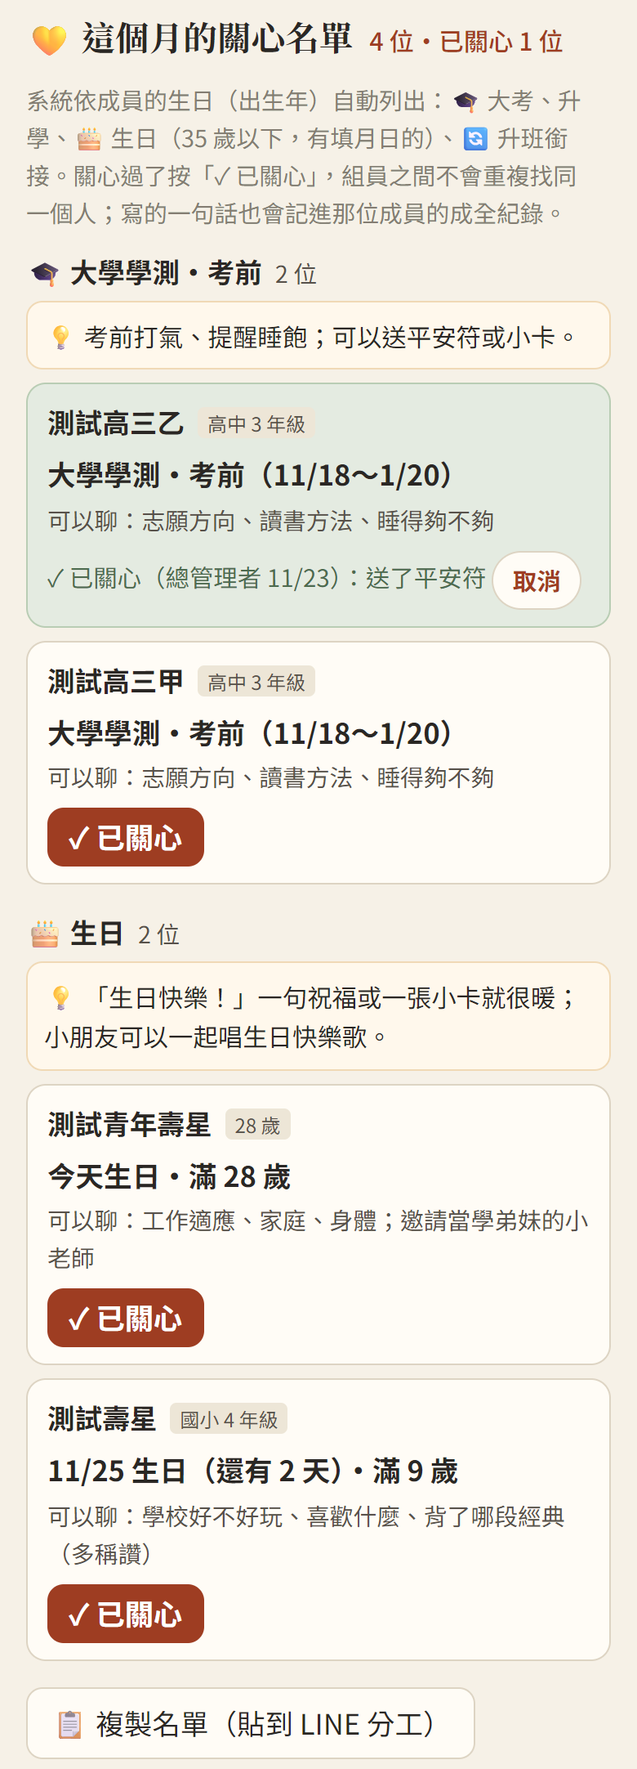
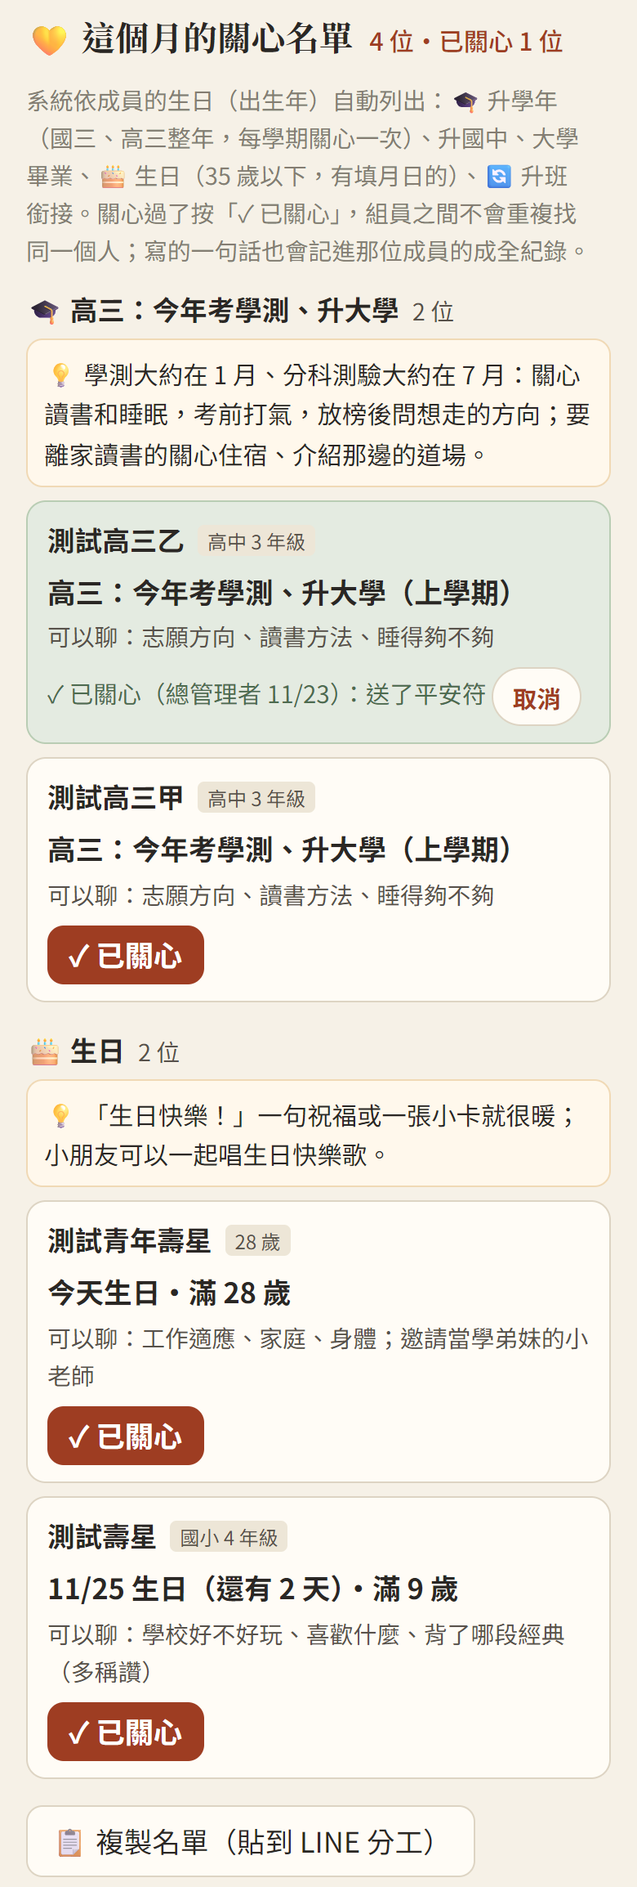
關心名單不記大考日期：國三、高三整個學年都列，每學期記一次已關心

Changed region(s): [[0.0308, 0.0, 0.9846, 0.9908], [0.5231, 0.6811, 0.9231, 0.7121], [0.9231, 0.774, 0.9538, 0.805]]

diff --git a/js/edu-care.js b/js/edu-care.js
@@ -1,5 +1,6 @@
 // 教育組的關心名單（2026/11/23）：依成員的生日、學齡，自動列出「這個月該關心誰」，每位附上原因和可以聊的話題。
-//   🎓 大考、升學：國中會考、大學學測、分科測驗（考前、放榜後）、升國中、大學畢業（日期可以在畫面上調整，存在 EDU_CARE_CONFIG）
+//   🎓 升學年：國三（會考、升高中）、高三（學測、分科、升大學）整個學年都列，每學期記一次已關心；
+//      升國中（國小六年級 6～8 月）、大學畢業（大四 5～6 月）。不記大考的確切日期（每年不一樣）。
 //   🎂 生日：前 3 天到後 7 天（35 歲以下，有填月日的）
 //   🔄 升班銜接：6～8 月列出 9 月要換班的人（讀經班→青少年班⋯），9～10 月列出剛升上新班的人
 // 「✓ 已關心」記在 apps-script/EduCare.gs（EDU_CARE），一句紀錄也寫進成員的成全紀錄。
@@ -16,14 +17,13 @@
     青年: '工作適應、家庭、身體；邀請當學弟妹的小老師'
   };
   const is = (stage, grade) => (st) => !!st && st.stage === stage && (grade === undefined || st.grade === grade);
-  /** 大考、升學（日期是大概的，每年看教育部公告，可以在畫面上改） */
+  /**
+   * 升學年（2026/11/23 改：不記大考日期）：國三、高三整個學年（9 月～隔年 8 月）都列，每學期（9～1 月、2～8 月）可以記一次已關心；
+   * 升國中、大學畢業只在那幾個月。
+   */
   const EVENTS = [
-    { id: 'cap', icon: '🎓', title: '國中會考・考前', who: is('國中', 3), from: '04-10', to: '05-20', topic: '考前打氣、不給壓力：「祝你考試順利，有需要幫忙跟我說」，可以送平安符或小卡。' },
-    { id: 'cap-after', icon: '🎓', title: '國中會考・放榜後', who: is('國中', 3), from: '06-05', to: '06-30', topic: '問結果和志願；考不好的更要陪伴，多聽少說。' },
-    { id: 'gsat', icon: '🎓', title: '大學學測・考前', who: is('高中', 3), from: '12-01', to: '01-20', topic: '考前打氣、提醒睡飽；可以送平安符或小卡。' },
-    { id: 'gsat-after', icon: '🎓', title: '大學學測・放榜後', who: is('高中', 3), from: '02-20', to: '03-20', topic: '問成績和想走的方向；要準備分科測驗的多鼓勵。' },
-    { id: 'ast', icon: '🎓', title: '分科測驗・考前', who: is('高中', 3), from: '06-01', to: '07-12', topic: '最後衝刺，關心身體和心情；考完邀請來青年活動放鬆。' },
-    { id: 'ast-after', icon: '🎓', title: '分科測驗・放榜後', who: is('高中', 3), from: '08-01', to: '08-25', topic: '問分發結果；要離家讀書的關心住宿、交通，介紹那邊的道場。' },
+    { id: 'g9', icon: '🎓', title: '國三：今年考會考、升高中', who: is('國中', 3), from: '09-01', to: '08-31', term: true, topic: '會考大約在 5 月：平常多鼓勵、考前打氣不給壓力（可以送平安符或小卡），放榜後問志願；壓力大的多聽少說。' },
+    { id: 'g12', icon: '🎓', title: '高三：今年考學測、升大學', who: is('高中', 3), from: '09-01', to: '08-31', term: true, topic: '學測大約在 1 月、分科測驗大約在 7 月：關心讀書和睡眠，考前打氣，放榜後問想走的方向；要離家讀書的關心住宿、介紹那邊的道場。' },
     { id: 'g6', icon: '🏫', title: '升國中', who: is('國小', 6), from: '06-01', to: '08-31', topic: '新環境、交新朋友；邀請繼續來青少年班。' },
     { id: 'u4', icon: '🎓', title: '大學畢業', who: is('大學', 4), from: '05-01', to: '06-30', topic: '找工作、當兵；邀請來青年班，也可以當學弟妹的小老師。' }
   ];
@@ -47,7 +47,7 @@
   const topicOf = (st, age) => (st ? TOPICS[st.stage] || '' : age !== '' && age <= 35 ? TOPICS['青年'] : '');
 
   /**
-   * members：成員名單（只算啟用中、不是待確認）；config：{ 原因代號: { from, to, off } }；stageOf＝Family.schoolStage；classes＝EduStats.AGE_CLASSES。
+   * members：成員名單（只算啟用中、不是待確認）；config：保留（不用了）；stageOf＝Family.schoolStage；classes＝EduStats.AGE_CLASSES。
    * 回傳 [{ id, icon, title, topic, items: [{ key, name, temple, label, reason, topic }] }]（沒有人的不回）
    */
   function build(members, today, config, stageOf, classes) {
@@ -66,12 +66,12 @@
     const groups = [];
 
     // 🎓 大考、升學
+    const term = m0 >= '02-01' && m0 < '09-01' ? 2 : 1; // 上學期 9～1 月、下學期 2～8 月
     EVENTS.forEach((e) => {
-      const c = config[e.id] || {};
-      if (c.off) return;
-      const from = c.from || e.from, to = c.to || e.to;
-      if (!inWin(m0, from, to)) return;
-      const items = info.filter((p) => e.who(p.st)).sort(sortI).map((p) => item(p, `${p.m.name}|${e.id}|${acad}`, `${e.title}（${short(from)}～${short(to)}）`, ''));
+      if (!inWin(m0, e.from, e.to)) return;
+      const key = (p) => `${p.m.name}|${e.id}|${acad}${e.term ? '-' + term : ''}`;
+      const why = e.term ? `${e.title}（${term === 1 ? '上' : '下'}學期）` : `${e.title}（${short(e.from)}～${short(e.to)}）`;
+      const items = info.filter((p) => e.who(p.st)).sort(sortI).map((p) => item(p, key(p), why, ''));
       if (items.length) groups.push({ id: e.id, icon: e.icon, title: e.title, topic: e.topic, items });
     });
 
@@ -117,7 +117,6 @@
   // =====================================================================
 
   const esc = (s) => String(s == null ? '' : s).replace(/[&<>"']/g, (c) => ({ '&': '&amp;', '<': '&lt;', '>': '&gt;', '"': '&quot;', "'": '&#39;' }[c]));
-  const toMD = (v) => { const m = String(v || '').trim().match(/^(\d{1,2})[/.\-月](\d{1,2})日?$/); if (!m) return null; const a = Number(m[1]), b = Number(m[2]); return a >= 1 && a <= 12 && b >= 1 && b <= 31 ? String(a).padStart(2, '0') + '-' + String(b).padStart(2, '0') : null; };
 
   /** box：放畫面的地方；opts = { members（已讀好的成員名單）, guard } */
   async function mount(box, opts) {
@@ -129,12 +128,12 @@
     }
     const draw = () => {
       if (!box.isConnected) return;
-      const groups = build(opts.members, d.today, d.config, Family.schoolStage, EduStats.AGE_CLASSES);
+      const groups = build(opts.members, d.today, null, Family.schoolStage, EduStats.AGE_CLASSES);
       const n = groups.reduce((s, g) => s + g.items.length, 0);
       const done = groups.reduce((s, g) => s + g.items.filter((x) => d.care[x.key]).length, 0);
       box.innerHTML = `
         <h3 class="admin-sub">💛 這個月的關心名單<span class="h2-sub">${n ? `${n} 位・已關心 ${done} 位` : '依生日、學齡自動列出'}</span></h3>
-        <p class="hint">系統依成員的生日（出生年）自動列出：🎓 大考、升學、🎂 生日（35 歲以下，有填月日的）、🔄 升班銜接。關心過了按「✓ 已關心」，組員之間不會重複找同一個人；寫的一句話也會記進那位成員的成全紀錄。</p>
+        <p class="hint">系統依成員的生日（出生年）自動列出：🎓 升學年（國三、高三整年，每學期關心一次）、升國中、大學畢業、🎂 生日（35 歲以下，有填月日的）、🔄 升班銜接。關心過了按「✓ 已關心」，組員之間不會重複找同一個人；寫的一句話也會記進那位成員的成全紀錄。</p>
         ${n ? groups.map((g, gi) => `
           <div class="ecare-group">
             <h4 class="ecare-head">${g.icon} ${esc(g.title)}<span>${g.items.length} 位</span></h4>
@@ -147,17 +146,8 @@
                 ${c ? `<p class="ecare-done">✓ 已關心（${esc(c.by)} ${esc(String(c.at).slice(5, 10).replace('-', '/'))}）${c.note ? '：' + esc(c.note) : ''}${d.canEdit ? ` <button type="button" class="link-btn" data-care-undo="${gi}|${i}">取消</button>` : ''}</p>`
                   : d.canEdit ? `<button type="button" class="btn btn-small btn-primary" data-care="${gi}|${i}">✓ 已關心</button>` : ''}
               </li>`; }).join('')}</ul>
-          </div>`).join('') : '<p class="panel-empty">這個月沒有要特別關心的人（大考、生日、升班都還沒到）。生日在「👥 人員 → 成員」補，填了就會自動列進來。</p>'}
-        <div class="admin-actions no-print">${n ? '<button type="button" class="btn" data-care-copy>📋 複製名單（貼到 LINE 分工）</button>' : ''}</div>
-        ${d.canEdit ? `<details class="ecare-config no-print"><summary>⚙ 調整大考、升學的日期</summary>
-          <p class="hint">每年考試日期不一樣，照教育部公告調整「什麼時候開始列、列到什麼時候」（月/日）。不想列的取消勾。</p>
-          <div class="ecare-config-rows">${EVENTS.map((e) => { const c = d.config[e.id] || {}; return `
-            <div class="ecare-config-row" data-ev="${e.id}">
-              <label class="check"><input type="checkbox" data-on${c.off ? '' : ' checked'}> ${e.icon} ${esc(e.title)}</label>
-              <span class="ecare-config-dates"><input class="input" data-from value="${esc(short(c.from || e.from))}" aria-label="${esc(e.title)} 開始">～<input class="input" data-to value="${esc(short(c.to || e.to))}" aria-label="${esc(e.title)} 結束"></span>
-            </div>`; }).join('')}</div>
-          <div class="form-error" data-care-error hidden></div>
-          <button type="button" class="btn" data-care-save>存檔</button></details>` : ''}`;
+          </div>`).join('') : '<p class="panel-empty">這個月沒有要特別關心的人（升學、生日、升班都還沒到）。生日在「👥 人員 → 成員」補，填了就會自動列進來。</p>'}
+        <div class="admin-actions no-print">${n ? '<button type="button" class="btn" data-care-copy>📋 複製名單（貼到 LINE 分工）</button>' : ''}</div>`;
       const pick = (v) => { const [gi, i] = v.split('|').map(Number); return groups[gi].items[i] && Object.assign({ group: groups[gi] }, groups[gi].items[i]); };
       box.querySelectorAll('[data-care]').forEach((b) => b.addEventListener('click', () => {
         const x = pick(b.dataset.care);
@@ -180,22 +170,6 @@
       if (cp) cp.addEventListener('click', async () => {
         const text = `💛【教育組關心名單】${d.today.slice(5).replace('-', '/')}\n` + groups.map((g) => `\n${g.icon} ${g.title}（${g.items.length} 位）\n` + g.items.map((x) => `・${x.name}${x.temple ? '（' + x.temple + '）' : ''} ${x.label}｜${x.reason}${d.care[x.key] ? '｜✓已關心' : ''}`).join('\n')).join('\n');
         cp.textContent = (await Share.copyText(text)) ? '已複製 ✓' : '複製失敗，請再按一次';
-      });
-      const sv = box.querySelector('[data-care-save]');
-      if (sv) sv.addEventListener('click', async () => {
-        const er = box.querySelector('[data-care-error]');
-        er.hidden = true;
-        const config = {};
-        let bad = '';
-        box.querySelectorAll('[data-ev]').forEach((row) => {
-          const e = EVENTS.find((x) => x.id === row.dataset.ev);
-          const from = toMD(row.querySelector('[data-from]').value), to = toMD(row.querySelector('[data-to]').value);
-          if (!from || !to) { bad = `「${e.title}」的日期請用 月/日，例：4/10`; return; }
-          const off = !row.querySelector('[data-on]').checked;
-          if (off || from !== e.from || to !== e.to) config[e.id] = { from, to, off };
-        });
-        if (bad) { er.textContent = bad; er.hidden = false; return; }
-        try { d = await Api.admin('adminEduCareConfig', { config }); draw(); } catch (e) { if (!(opts.guard && opts.guard(e))) { er.textContent = e.message; er.hidden = false; } }
       });
     };
     draw();

diff --git a/index.html b/index.html
@@ -23,7 +23,7 @@
   <link rel="preconnect" href="https://fonts.googleapis.com">
   <link rel="preconnect" href="https://fonts.gstatic.com" crossorigin>
   <link href="https://fonts.googleapis.com/css2?family=Noto+Sans+TC:wght@400;500;700&family=Noto+Serif+TC:wght@600;700&display=swap" rel="stylesheet">
-  <link rel="stylesheet" href="css/app.css?v=20261123i">
+  <link rel="stylesheet" href="css/app.css?v=20261123j">
   <script>try { var t = localStorage.getItem('duty-calendar:text-size'); if (t === 'l' || t === 'xl') document.documentElement.classList.add('text-' + t); } catch (e) {}</script>
 </head>
 <body class="splash-on">
@@ -118,69 +118,69 @@
   <script src="https://cdn.jsdelivr.net/npm/fullcalendar@6.1.21/index.global.min.js"></script>
   <script src="https://cdn.jsdelivr.net/npm/@fullcalendar/core@6.1.21/locales/zh-tw.global.min.js"></script>
   <!-- 改了 js、css 後把 ?v= 的日期換新，手機才不會用到舊的檔案（GitHub Pages 會快取 10 分鐘） -->
-  <script src="js/site.js?v=20261123i"></script>
-  <script src="js/region.js?v=20261123i"></script>
-  <script src="js/config.js?v=20261123i"></script>
-  <script src="js/api.js?v=20261123i"></script>
-  <script src="js/format.js?v=20261123i"></script>
-  <script src="js/member-suggest.js?v=20261123i"></script>
-  <script src="js/newcomer.js?v=20261123i"></script>
-  <script src="js/member-file.js?v=20261123i"></script>
-  <script src="js/family.js?v=20261123i"></script>
-  <script src="js/lunar-util.js?v=20261123i"></script>
-  <script src="js/date-list.js?v=20261123i"></script>
-  <script src="js/share.js?v=20261123i"></script>
-  <script src="js/addcal.js?v=20261123i"></script>
-  <script src="js/duty-cache.js?v=20261123i"></script>
-  <script src="js/thanks-board.js?v=20261123i"></script>
-  <script src="js/calendar.js?v=20261123i"></script>
-  <script src="js/confirm.js?v=20261123i"></script>
-  <script src="js/reschedule.js?v=20261123i"></script>
-  <script src="js/signup.js?v=20261123i"></script>
-  <script src="js/duty-images.js?v=20261123i"></script>
-  <script src="js/roster-grid.js?v=20261123i"></script>
-  <script src="js/grid-page.js?v=20261123i"></script>
-  <script src="js/grid-image.js?v=20261123i"></script>
-  <script src="js/thanks-image.js?v=20261123i"></script>
-  <script src="js/celebrate.js?v=20261123i"></script>
-  <script src="js/duty.js?v=20261123i"></script>
-  <script src="js/mine.js?v=20261123i"></script>
-  <script src="js/venue-hours.js?v=20261123i"></script>
-  <script src="js/venue.js?v=20261123i"></script>
-  <script src="js/push.js?v=20261123i"></script>
-  <script src="js/admin.js?v=20261123i"></script>
-  <script src="js/admin-pages.js?v=20261123i"></script>
-  <script src="js/draft-editor.js?v=20261123i"></script>
-  <script src="js/group-fair.js?v=20261123i"></script>
-  <script src="js/admin-duties.js?v=20261123i"></script>
-  <script src="js/admin-accounts.js?v=20261123i"></script>
-  <script src="js/admin-site.js?v=20261123i"></script>
-  <script src="js/region-setup.js?v=20261123i"></script>
-  <script src="js/import-parse.js?v=20261123i"></script>
-  <script src="js/admin-import.js?v=20261123i"></script>
-  <script src="js/admin-people.js?v=20261123i"></script>
-  <script src="js/admin-hq.js?v=20261123i"></script>
-  <script src="js/stats-calc.js?v=20261123i"></script>
-  <script src="js/edu-stats.js?v=20261123i"></script>
-  <script src="js/edu-care.js?v=20261123i"></script>
-  <script src="js/admin-goals.js?v=20261123i"></script>
-  <script src="js/admin-venue.js?v=20261123i"></script>
-  <script src="js/admin-push.js?v=20261123i"></script>
-  <script src="js/tutorial.js?v=20261123i"></script>
-  <script src="js/help.js?v=20261123i"></script>
-  <script src="js/rollcall.js?v=20261123i"></script>
-  <script src="js/stats-export.js?v=20261123i"></script>
-  <script src="js/repair.js?v=20261123i"></script>
-  <script src="js/activity-report.js?v=20261123i"></script>
-  <script src="js/member-stats.js?v=20261123i"></script>
-  <script src="js/admin-stats.js?v=20261123i"></script>
-  <script src="js/admin-report.js?v=20261123i"></script>
-  <script src="js/admin-recent-signups.js?v=20261123i"></script>
-  <script src="js/admin-notice.js?v=20261123i"></script>
-  <script src="js/admin-notify.js?v=20261123i"></script>
-  <script src="js/history-parse.js?v=20261123i"></script>
-  <script src="js/admin-history.js?v=20261123i"></script>
-  <script src="js/easy-mode.js?v=20261123i"></script>
-  <script src="js/app.js?v=20261123i"></script>
+  <script src="js/site.js?v=20261123j"></script>
+  <script src="js/region.js?v=20261123j"></script>
+  <script src="js/config.js?v=20261123j"></script>
+  <script src="js/api.js?v=20261123j"></script>
+  <script src="js/format.js?v=20261123j"></script>
+  <script src="js/member-suggest.js?v=20261123j"></script>
+  <script src="js/newcomer.js?v=20261123j"></script>
+  <script src="js/member-file.js?v=20261123j"></script>
+  <script src="js/family.js?v=20261123j"></script>
+  <script src="js/lunar-util.js?v=20261123j"></script>
+  <script src="js/date-list.js?v=20261123j"></script>
+  <script src="js/share.js?v=20261123j"></script>
+  <script src="js/addcal.js?v=20261123j"></script>
+  <script src="js/duty-cache.js?v=20261123j"></script>
+  <script src="js/thanks-board.js?v=20261123j"></script>
+  <script src="js/calendar.js?v=20261123j"></script>
+  <script src="js/confirm.js?v=20261123j"></script>
+  <script src="js/reschedule.js?v=20261123j"></script>
+  <script src="js/signup.js?v=20261123j"></script>
+  <script src="js/duty-images.js?v=20261123j"></script>
+  <script src="js/roster-grid.js?v=20261123j"></script>
+  <script src="js/grid-page.js?v=20261123j"></script>
+  <script src="js/grid-image.js?v=20261123j"></script>
+  <script src="js/thanks-image.js?v=20261123j"></script>
+  <script src="js/celebrate.js?v=20261123j"></script>
+  <script src="js/duty.js?v=20261123j"></script>
+  <script src="js/mine.js?v=20261123j"></script>
+  <script src="js/venue-hours.js?v=20261123j"></script>
+  <script src="js/venue.js?v=20261123j"></script>
+  <script src="js/push.js?v=20261123j"></script>
+  <script src="js/admin.js?v=20261123j"></script>
+  <script src="js/admin-pages.js?v=20261123j"></script>
+  <script src="js/draft-editor.js?v=20261123j"></script>
+  <script src="js/group-fair.js?v=20261123j"></script>
+  <script src="js/admin-duties.js?v=20261123j"></script>
+  <script src="js/admin-accounts.js?v=20261123j"></script>
+  <script src="js/admin-site.js?v=20261123j"></script>
+  <script src="js/region-setup.js?v=20261123j"></script>
+  <script src="js/import-parse.js?v=20261123j"></script>
+  <script src="js/admin-import.js?v=20261123j"></script>
+  <script src="js/admin-people.js?v=20261123j"></script>
+  <script src="js/admin-hq.js?v=20261123j"></script>
+  <script src="js/stats-calc.js?v=20261123j"></script>
+  <script src="js/edu-stats.js?v=20261123j"></script>
+  <script src="js/edu-care.js?v=20261123j"></script>
+  <script src="js/admin-goals.js?v=20261123j"></script>
+  <script src="js/admin-venue.js?v=20261123j"></script>
+  <script src="js/admin-push.js?v=20261123j"></script>
+  <script src="js/tutorial.js?v=20261123j"></script>
+  <script src="js/help.js?v=20261123j"></script>
+  <script src="js/rollcall.js?v=20261123j"></script>
+  <script src="js/stats-export.js?v=20261123j"></script>
+  <script src="js/repair.js?v=20261123j"></script>
+  <script src="js/activity-report.js?v=20261123j"></script>
+  <script src="js/member-stats.js?v=20261123j"></script>
+  <script src="js/admin-stats.js?v=20261123j"></script>
+  <script src="js/admin-report.js?v=20261123j"></script>
+  <script src="js/admin-recent-signups.js?v=20261123j"></script>
+  <script src="js/admin-notice.js?v=20261123j"></script>
+  <script src="js/admin-notify.js?v=20261123j"></script>
+  <script src="js/history-parse.js?v=20261123j"></script>
+  <script src="js/admin-history.js?v=20261123j"></script>
+  <script src="js/easy-mode.js?v=20261123j"></script>
+  <script src="js/app.js?v=20261123j"></script>
 </body>
 </html>

diff --git a/tools/help-shots.js b/tools/help-shots.js
@@ -173,8 +173,8 @@ const SHOTS = [
     clip: `const h = [...document.querySelectorAll('#view-duty legend')].find((x) => x.textContent.includes('填名字')); const f = h.closest('fieldset'); return __box(f, 8);` },
   // 教育統計：各年齡層適合的班（2026/11/23）
   { name: 'edu-age-classes', admin: true, hash: '#/admin/stats', js: `for (const [n, b] of [['測試幼兒', 2021], ['測試小二', 2019], ['測試小四', 2017], ['測試國二', 2013], ['測試高二', 2010], ['測試青年', 1996], ['測試長輩', 1958]]) { try { await Api.admin('adminSaveMember', { member: { name: n, identity: '道親', birth: String(b), groups: {}, active: true } }); } catch (e) {} } location.hash = '#/admin/groups'; await __wait(300); location.hash = '#/admin/stats'; for (let i = 0; i < 30 && !document.querySelector('input[name=scat]'); i++) await __wait(300); [...document.querySelectorAll('input[name=scat]')].find((x) => x.value === '教育').click(); for (let i = 0; i < 30 && !document.querySelector('[data-age-open]'); i++) await __wait(300); document.querySelector('[data-age-open]').click(); await __wait(600);`, clip: `return __box('[data-age-classes]', 6);` },
-  // 教育組的關心名單（2026/11/23）：學測提早列出來示範、壽星、已關心一位
-  { name: 'edu-care', admin: true, hash: '#/admin/stats', js: `const t = new Date(Date.now() + 8 * 3600000); const md = (d) => String(d.getUTCMonth() + 1).padStart(2, '0') + '-' + String(d.getUTCDate()).padStart(2, '0'); const soon = new Date(t.getTime() + 2 * 86400000); const y = t.getUTCFullYear(); const acad = t.getUTCMonth() >= 8 ? y : y - 1; for (const [n, b] of [['測試高三甲', String(acad - 17)], ['測試高三乙', String(acad - 17)], ['測試壽星', (y - 9) + '/' + md(soon).replace('-', '/')], ['測試青年壽星', (y - 28) + '/' + md(t).replace('-', '/')]]) { try { await Api.admin('adminSaveMember', { member: { name: n, identity: '道親', birth: b, groups: {}, active: true } }); } catch (e) {} } await Api.admin('adminEduCareConfig', { config: { gsat: { from: md(new Date(t.getTime() - 5 * 86400000)), to: '01-20' } } }); await Api.admin('adminEduCare', { key: '測試高三乙|gsat|' + acad, name: '測試高三乙', label: '大學學測・考前', note: '送了平安符' }); location.hash = '#/admin/groups'; await __wait(300); location.hash = '#/admin/stats'; for (let i = 0; i < 30 && !document.querySelector('input[name=scat]'); i++) await __wait(300); [...document.querySelectorAll('input[name=scat]')].find((x) => x.value === '教育').click(); for (let i = 0; i < 40 && !document.querySelector('.ecare-group'); i++) await __wait(300); if (!document.querySelector('.ecare-group')) throw new Error('INFO ' + document.querySelector('[data-edu-care]').innerText.slice(0, 200)); await __wait(400);`, clip: `const a = document.querySelector('[data-edu-care]'); a.scrollIntoView(); const r = a.getBoundingClientRect(); const e = a.querySelector('.admin-actions').getBoundingClientRect(); return { x: 0, y: r.top + scrollY - 6, width: innerWidth, height: e.bottom - r.top + 12 };` },
+  // 教育組的關心名單（2026/11/23）：高三、壽星、已關心一位
+  { name: 'edu-care', admin: true, hash: '#/admin/stats', js: `const t = new Date(Date.now() + 8 * 3600000); const md = (d) => String(d.getUTCMonth() + 1).padStart(2, '0') + '-' + String(d.getUTCDate()).padStart(2, '0'); const soon = new Date(t.getTime() + 2 * 86400000); const y = t.getUTCFullYear(); const acad = t.getUTCMonth() >= 8 ? y : y - 1; for (const [n, b] of [['測試高三甲', String(acad - 17)], ['測試高三乙', String(acad - 17)], ['測試壽星', (y - 9) + '/' + md(soon).replace('-', '/')], ['測試青年壽星', (y - 28) + '/' + md(t).replace('-', '/')]]) { try { await Api.admin('adminSaveMember', { member: { name: n, identity: '道親', birth: b, groups: {}, active: true } }); } catch (e) {} } await Api.admin('adminEduCare', { key: '測試高三乙|g12|' + acad + '-' + (md(t) >= '02-01' && md(t) < '09-01' ? 2 : 1), name: '測試高三乙', label: '高三：今年考學測、升大學', note: '送了平安符' }); location.hash = '#/admin/groups'; await __wait(300); location.hash = '#/admin/stats'; for (let i = 0; i < 30 && !document.querySelector('input[name=scat]'); i++) await __wait(300); [...document.querySelectorAll('input[name=scat]')].find((x) => x.value === '教育').click(); for (let i = 0; i < 40 && !document.querySelector('.ecare-group'); i++) await __wait(300); if (!document.querySelector('.ecare-group')) throw new Error('INFO ' + document.querySelector('[data-edu-care]').innerText.slice(0, 200)); await __wait(400);`, clip: `const a = document.querySelector('[data-edu-care]'); a.scrollIntoView(); const r = a.getBoundingClientRect(); const e = a.querySelector('.admin-actions').getBoundingClientRect(); return { x: 0, y: r.top + scrollY - 6, width: innerWidth, height: e.bottom - r.top + 12 };` },
   // 新朋友要填佛堂、生日（2026/11/23）
   { name: 'signup-newcomer', hash: null, js: `const res = (await __g({ action: 'getEvents', from: '2026-10-13', to: '2027-03-30' })).data; const d = res.duties.find((x) => x.name.includes('志工輪值') && x.start > res.today); location.hash = '#/duty/' + encodeURIComponent(d.id) + '?date=' + d.start; await __wait(2500); const inp = document.querySelector('#view-duty input[type=text], #view-duty input:not([type])'); inp.value = '測試新朋友'; inp.dispatchEvent(new Event('input', { bubbles: true })); await __wait(300); [...document.querySelectorAll('#view-duty button')].find((b) => b.textContent.trim() === '加入').click(); await __wait(400); document.querySelector('#view-duty form').requestSubmit(); await __wait(800); const r = [...document.querySelectorAll('.modal-box input[type=radio]')].find((x) => x.value === '未求道'); if (r) { r.click(); await __wait(200); document.querySelector('[data-ask-ok]').click(); } for (let i = 0; i < 30 && !document.querySelector('[data-nc-birth]'); i++) await __wait(300); const b = document.querySelector('[data-nc-birth]'); b.value = '1991/5/6'; b.dispatchEvent(new Event('input')); document.querySelector('[data-nc-temple]').value = '__none__'; await __wait(300);`, clip: `return __box('.modal-box', 4);` },
   { name: 'signup-done', hash: '#/', js: `await __wait(800); localStorage.setItem('duty-calendar:celebrate-turn', '2'); Celebrate.show(['測試甲', '測試乙']); await __wait(1200);` }, // 截圖固定用觀世音菩薩

diff --git a/css/app.css b/css/app.css
@@ -2972,9 +2972,3 @@ button.veg-chip:hover { border-color: var(--ok); }
 .ecare-reason { margin: 4px 0 2px; font-weight: 600; }
 .ecare-talk { margin: 2px 0 8px; font-size: .9rem; color: var(--ink-2); }
 .ecare-done { margin: 4px 0 0; color: var(--ok); font-size: .92rem; }
-.ecare-config { margin: 12px 0; }
-.ecare-config summary { cursor: pointer; min-height: 44px; display: flex; align-items: center; color: var(--ink-2); }
-.ecare-config-rows { display: grid; gap: 6px; margin: 6px 0 10px; }
-.ecare-config-row { display: flex; flex-wrap: wrap; align-items: center; justify-content: space-between; gap: 6px 12px; padding: 4px 0; border-bottom: 1px dashed var(--line); }
-.ecare-config-dates { display: inline-flex; align-items: center; gap: 6px; }
-.ecare-config-dates .input { width: 5.5em; text-align: center; }

diff --git a/docs/spec.md b/docs/spec.md
@@ -350,7 +350,7 @@
 - **填了佛堂自動帶入勤務了愿組（2026/11/22）**：勤務了愿組是依佛堂分的，templeGroupMap_ 看同一佛堂有設組的成員，2/3 以上同一組就是那個佛堂的組（沒人設過或分不出來＝不帶）。成員存檔（佛堂有改、勤務了愿組空白）、從出勤紀錄加入、報名自動加入（待確認）、adminSetMemberExtra 改佛堂、匯入成員資料（含新增）時，勤務了愿組空白就帶入；已經有組的不蓋掉。成員編輯視窗選了佛堂、勤務了愿組空著時當場帶入並提示「已依佛堂帶入」。打掃組、拜香輪值組依人名，不自動帶。
 - **依名單設定組別（2026/11/22）**：分組頁「📋 依名單設定組別」：選分組類型、貼上「組名：名單」（一行一組，組名後面的冒號可省；「召集人、組長、佐理、組員、副組長」字樣和括號會拿掉），寫「佛堂」結尾的當佛堂、其他當姓名；「用各組的「組員」欄」把分組上的組長、佐理、組員帶進來。adminAssignGroups（總管理者、道務、教育）：組名比對時中文數字換成阿拉伯數字、去掉括號（第一組＝第1組，第五組(青年組)＝第五組），沒有的組整批擋下並列出現有的組；佛堂去掉「佛堂」兩字後相同或互相包含（高徽佛堂↔高徽公共）的成員全部設成那組；姓名（或別名）對到一位才設，同名好幾位列為分不出來；名字比佛堂優先；可選「名單上沒有的人清掉這一類組別」（只清啟用中的）；待確認的成員不動。沒有 apply＝只預覽（誰從哪組換到哪組、依佛堂或依名字、找不到的名字、對不到的佛堂、同名分不出來），按「確定設定」才寫入並記操作紀錄。
 - **道二代、道三代與學齡（2026/11/22）**：「成員」分頁最後新增「父母」（成員名單上的爸爸、媽媽，姓名「、」分開，最多 4 位，不能填自己）、「學校」（50 字）、「興趣」（200 字）。成員編輯視窗多「👨👩👧 家人」區：父母欄連動成員名單（好幾位），下面即時顯示自動算的學齡、第幾代、子女，父母不在名單上會提醒。**第幾代**（js/family.js Family.generations，前端算、不存）：父母（名單上、身分是道親／壇辦／點傳師）最大代數＋1，沒有＝第 1 代；2＝道二代、3＝道三代、4＝道四代；**只標 45 歲（含）以下**（Family.MAX_AGE；沒填年齡的照算），超過的不標籤、不算進道二代頁的人數與篩選（shownGen＝1），但真正的代數照算給子女用；父母填成環不會當掉；同名不同佛堂分開算。**學齡**（Family.schoolStage）：台灣學年 9 月開始，學年開始時滿 6 歲＝國小一年級，依出生年推算（只有出生年，9 月以後生日的可能差一年）：學齡前（3 歲以下）、幼兒園、國小 1～6、國中 1～3、高中 1～3、大學 1～4，之後不顯示。成員卡片多「道二代」「國小 3 年級」標籤。👥 人員多一頁「👨👩👧 道二代」（#/admin/youth，所有帳號看得到；總管理者、道務、教育能改）：上面人數卡（道二代、道三代、道四代以上、各學齡，點了篩選），篩選（道二代以上或學齡中／道二代／道三代／道四代以上／學齡中還沒填父母／全部；學齡；搜尋姓名、父母、佛堂、學校、興趣），名單依學齡排（父母、子女、學校、興趣），點一位用 adminSetFamily 只改父母、年齡、學校、興趣（父母要在名單上），「⬇ 匯出 Excel」（姓名、佛堂、第幾代、學齡、年齡、身分、父母、子女、學校、興趣）。成員改名、合併成同一人時，別人「父母」欄裡的名字一起改（renameParentRefs_）。匯入成員資料也認得父母（家長、父親、母親，可以兩欄）、學校（就讀）、興趣（專長、才藝）欄；「父親姓名」不會被當成姓名，電話、地址欄不對到任何欄位。
-- **教育組的關心名單（2026/11/23）**：統計選「教育」，「各年齡層適合的班」下面「💛 這個月的關心名單」（js/edu-care.js build／mount；apps-script/EduCare.gs）。名單前端依成員出生年、生日、學齡算（只算啟用中、不是待確認）：🎓 大考、升學（EVENTS：國三會考考前 4/10～5/20、放榜後 6/5～6/30；高三學測考前 12/1～1/20、放榜後 2/20～3/20；分科測驗考前 6/1～7/12、放榜後 8/1～8/25；國小六年級升國中 6/1～8/31；大四畢業 5/1～6/30；日期大概，可以調整）、🎂 生日（前 3 天到後 7 天，35 歲以下、有月日的，跨年也算）、🔄 升班銜接（6/1～8/31 列 9 月要換班的：比較今天和 9/1 的班；9/1～10/31 列剛升上的：比較 8/31 和今天；學齡前升到讀經班也算；超過 35 歲離開青年班的不列）。每組一段建議（💡），每人寫姓名、佛堂、年級或幾歲、原因、可以聊的話題（依學齡：幼兒園、國小、國中、高中、大學、青年）。「✓ 已關心」（adminEduCare：關心代號＝名字|原因|學年或年，記 at、by、一句 note，存指令碼屬性 EDU_CARE，只留 400 天；同時把「月/日 原因：note（誰）」加到成員成全紀錄最前面，最多 300 字）、可取消；「📋 複製名單」（依組，標已關心）；「⚙ 調整大考、升學的日期」（adminEduCareConfig：每項開始、結束月/日、關掉，存 EDU_CARE_CONFIG，只存改過的）。記錄、調整：總管理者、教育、道務（adminEduCareList 回 canEdit）；其他帳號只看。
+- **教育組的關心名單（2026/11/23）**：統計選「教育」，「各年齡層適合的班」下面「💛 這個月的關心名單」（js/edu-care.js build／mount；apps-script/EduCare.gs）。名單前端依成員出生年、生日、學齡算（只算啟用中、不是待確認）：🎓 升學年（不記大考確切日期，使用者要求）：國三（今年考會考、升高中）、高三（今年考學測、升大學）整個學年（9 月～隔年 8 月）都列，關心代號含學期（上學期 9～1 月＝1、下學期 2～8 月＝2），每學期記一次；國小六年級升國中 6/1～8/31、大四畢業 5/1～6/30；🎂 生日（前 3 天到後 7 天，35 歲以下、有月日的，跨年也算）；🔄 升班銜接（6/1～8/31 列 9 月要換班的：比較今天和 9/1 的班；9/1～10/31 列剛升上的：比較 8/31 和今天；學齡前升到讀經班也算；超過 35 歲離開青年班的不列）。每組一段建議（💡，國三、高三寫大約幾月考試），每人寫姓名、佛堂、年級或幾歲、原因、可以聊的話題（依學齡）。「✓ 已關心」（adminEduCare：關心代號＝名字|原因|學年（-學期）或年，記 at、by、一句 note，存指令碼屬性 EDU_CARE，只留 400 天；同時把「月/日 原因：note（誰）」加到成員成全紀錄最前面，最多 300 字）、可取消；「📋 複製名單」（依組，標已關心）。記錄：總管理者、教育、道務（adminEduCareList 回 canEdit）；其他帳號只看。
 - **教育統計：各年齡層適合的班（2026/11/23）**：統計選「教育」，各班師資下面「各年齡層適合的班」（js/edu-stats.js ageClasses、AGE_CLASSES；js/admin-stats.js mountAgeClasses，成員名單 adminMembers 1 分鐘內不重讀）：依成員出生年和學齡（Family.schoolStage）分：讀經班＝幼兒園～國小 4 年級、青少年班＝國小 5 年級～國中、高大班＝高中、大學、青年班＝大學畢業～35 歲；只算啟用中、不是待確認的成員。每班一張卡：幾位適合、這段期間有來上課幾位（上面選的期間、課程名稱含班名，名字或別名對到成員）、適合的人裡有來過／還沒來幾位、有來但不在這個年齡幾位；「看是哪些人」展開名單（年紀小的在前：姓名、佛堂、幾年級或幾歲、✓ 有來／還沒來，下面列有來但不在這個年齡的名字）、「複製名單」。最下面學齡前、36 歲以上、還沒填生日幾位，點了展開名單。
 - **新朋友報名要填佛堂、生日（2026/11/23）**：報名（signup_）、管理者幫人報名／補登（adminAddAttendee_）時，名字不在成員名單上（含待確認、別名）的人，一定要有佛堂（從佛堂清單選，或「沒有」＝noTemple）和生日（birth，同成員編輯的寫法，可以只填出生年），少了回 NEWCOMER（details＝每位 { name, message }，最後一筆 { temples: 佛堂清單 }）。前端 js/newcomer.js：跳「🌱 新朋友，請再填一下」視窗（每位一個佛堂選單＋生日欄，即時顯示幾年生、幾歲），填好自動再送一次（Newcomer.run／ask）；用在報名頁、補登視窗、職司表加人。新名字自動加入的待確認成員會存佛堂、出生年、生日（addPendingMembers_ 的 births）。名單上已經有的人（含待確認）不用填。指令碼屬性 NEWCOMER_INFO＝0 可以關掉（測試用）。
 - **成員生日（月日，選填，2026/11/23）**：「成員」分頁最後新增「生日」（MM-dd；年在「出生年」）。成員編輯視窗和道二代頁的「年齡」改成一格「生日（選填；只知道出生年就填年，年齡會自動算）」（2026/11/23 改）：接受 1965/3/7、1965-03-07、1965年3月7日、民國54年3月7日、54/3/7、054.03.07，或只有年 1965、54（兩三位數＝民國），下面即時顯示「→ 1965 年生・今年 61 歲・生日 3/7」，看不懂的紅字；存檔送 birth（有改才送，原本只有月日的不會被清掉），後端 birthInput_ 換成出生年＋生日（只填年＝月日清掉；1900 以前、今年以後、不存在的日期擋），adminSaveMember、adminSetFamily 都收；舊的 age、birthday 參數照樣可用；成員卡片顯示「🎂 3/7」；adminMembers 回 birthday。匯入成員資料：生日欄有月日的（日期、Excel 序號、1965/3/7、54.03.07、民國54年3月7日；MemberFile.parseMonthDay）帶 birthday，只有年的不動原本的月日；合併成同一人時沒填的用另一位的補。
